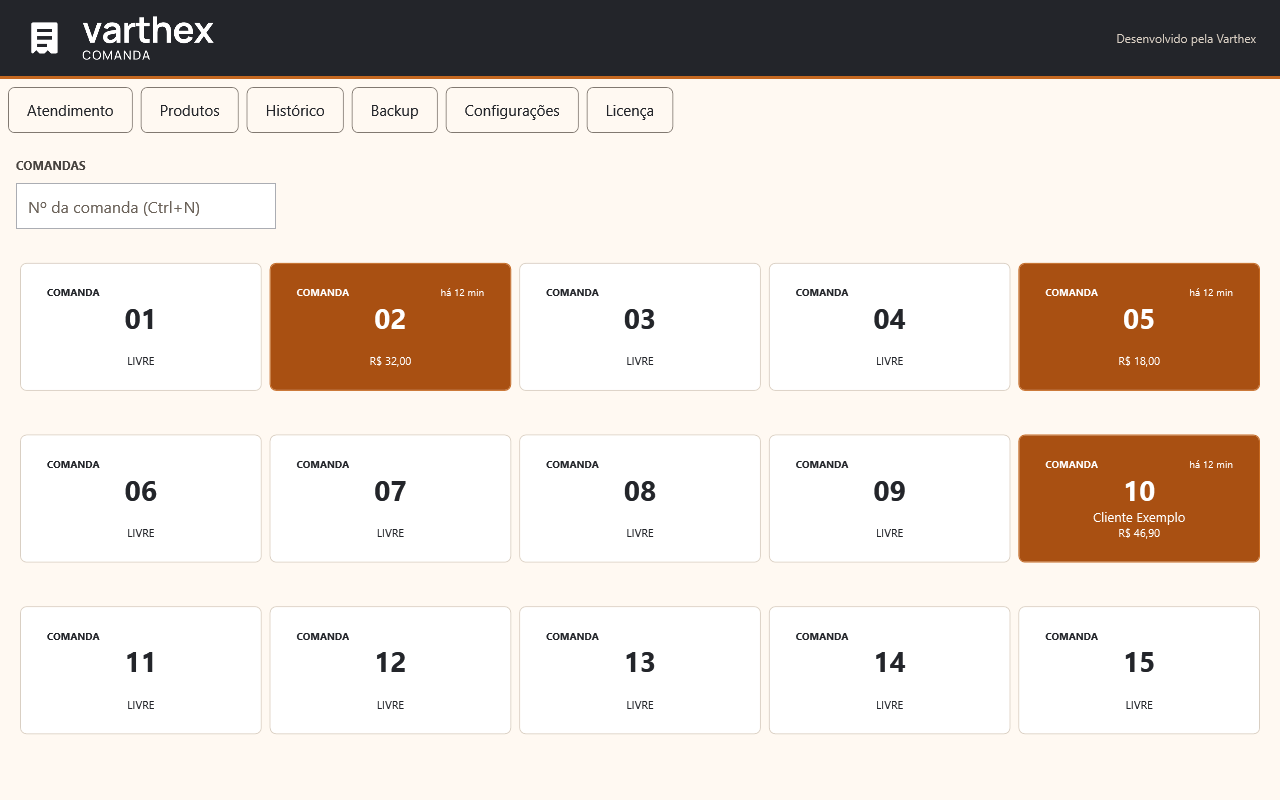
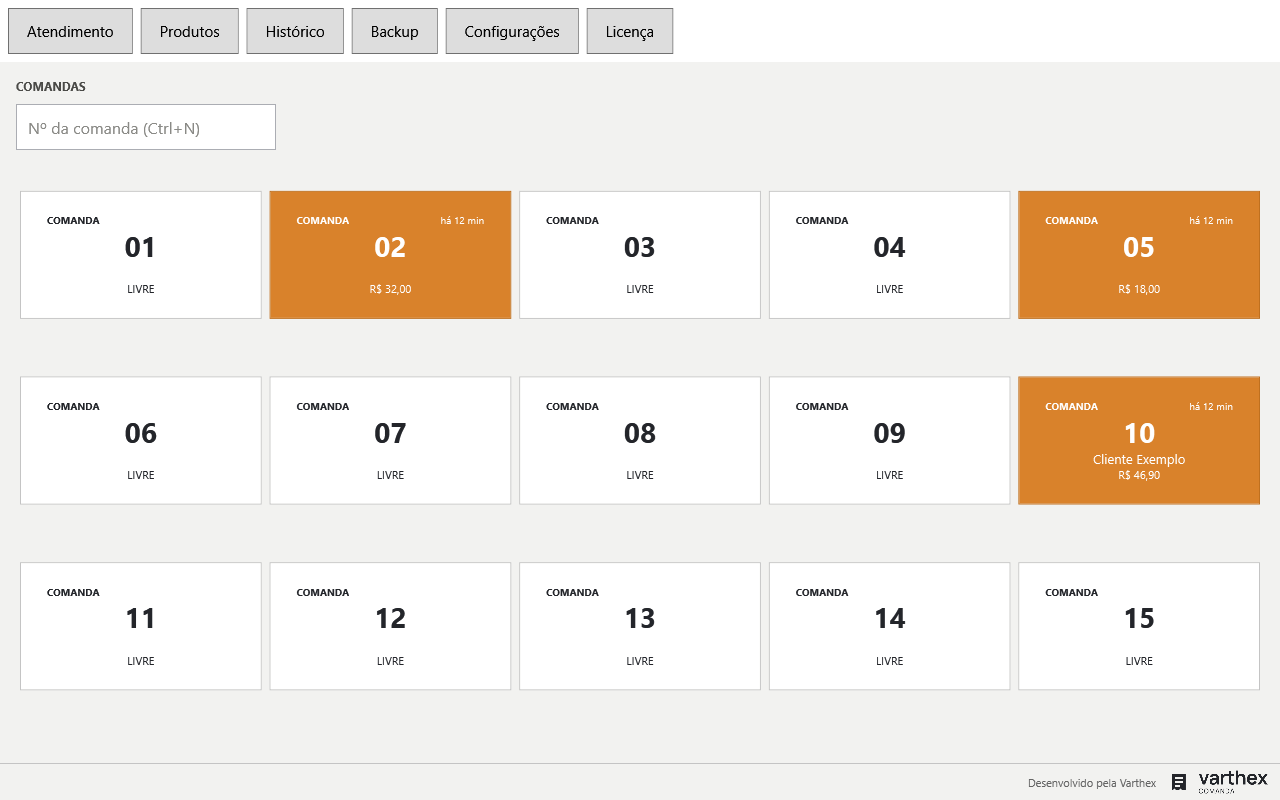
docs: atualiza capturas com controles quadrados e rodape

diff --git a/README.md b/README.md
@@ -38,7 +38,7 @@ o Windows pode exibir um aviso de aplicativo desconhecido.
 
 ## Telas
 
-Telas da versão 1.2.1, renderizadas diretamente pelo WPF com dados fictícios em memória, sem acessar o banco do usuário.
+Telas do código atual, com cores originais, controles quadrados e marca no rodapé. Renderizadas diretamente pelo WPF com dados fictícios em memória, sem acessar o banco do usuário. O instalador 1.2.1 ainda utiliza o layout anterior.
 
 <img src="docs/design/atendimento-comanda.png" alt="Comanda com nome do cliente, catálogo e itens selecionados na nova identidade visual" width="900">
 
